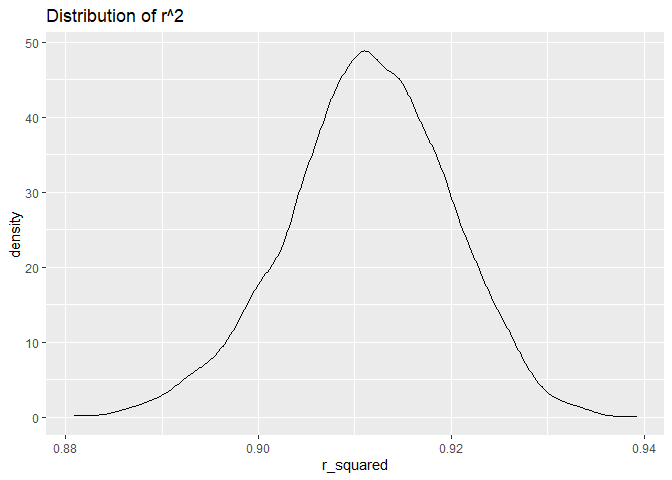
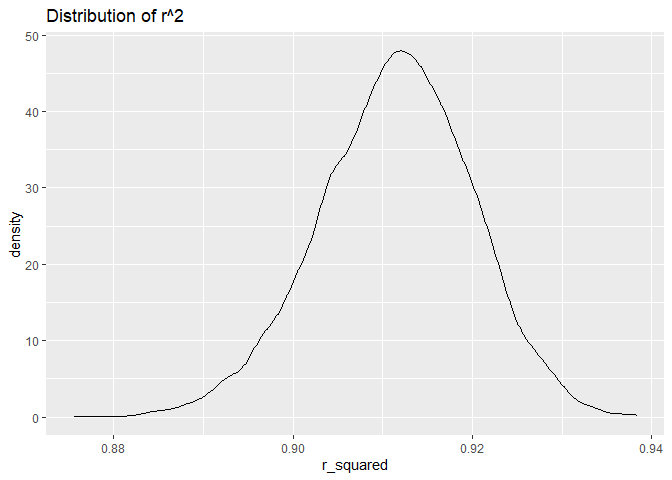
Added notes

diff --git a/p8105_hw6_yo2336.md b/p8105_hw6_yo2336.md
@@ -4,7 +4,10 @@ Yoo Rim Oh
 
 # Problem 1
 
-Load and clean data
+## Load and clean data
+
+Load data using `read_csv` and changed columns `babysex`, `frace`,
+`malform`, and `mrace` as factor vectors.
 
 ``` r
 birth_weight =
@@ -43,7 +46,27 @@ summary(is.na(birth_weight))
     ##  Mode :logical   Mode :logical   Mode :logical   Mode :logical  
     ##  FALSE:4342      FALSE:4342      FALSE:4342      FALSE:4342
 
-Regression model for birth weight
+As a result, this data frame has 20 variables named, babysex, bhead,
+blength, bwt, delwt, fincome, frace, gaweeks, malform, menarche,
+mheight, momage, mrace, parity, pnumlbw, pnumsga, ppbmi, ppwt, smoken,
+wtgain with total of 4342 observations.
+
+In order to check that this data does not have any missing values, used
+`summary(is.na(birth_weight))`. No NA present in this data.
+
+## Regression model for birth weight
+
+A linear regression model for birth weight based on hypothesis created
+using `lm()` and named it `birth_weight_fit`. `bwt` was the response and
+predictors were `bhead`, `blength`, `delwt`, `gaweeks`, and `wtgain` to
+observe how baby’s length, head circumference, gestational age along
+with mother’s weight gain and weight at the time of delivery effect
+baby’s birth weight.
+
+I hypothesized that the the size of the baby at birth, including length
+and head circumference, and the weight of mother in relation to the
+gestational age would have an effect on the ultimate weight of the baby
+at birth.
 
 ``` r
 birth_weight_fit = lm(bwt ~ bhead + blength + delwt + gaweeks + wtgain, data = birth_weight)
@@ -73,7 +96,13 @@ left_join(add_residuals(birth_weight, birth_weight_fit),
 
 ![](p8105_hw6_yo2336_files/figure-gfm/unnamed-chunk-2-1.png)<!-- -->
 
-Compare 3 Models
+## Compare 3 Models
+
+Compared the hypothesis driven model from above (called fit) with a
+model (called model 1) with length at birth and gestational age as
+predictors and another model (called model 2) with head circumference,
+length, sex, and all interactions between. Used `crossv_mc()` to compare
+in terms of the cross-validated prediction error.
 
 ``` r
 cv_df = 
@@ -106,9 +135,14 @@ cv_df %>%
 
 ![](p8105_hw6_yo2336_files/figure-gfm/unnamed-chunk-3-1.png)<!-- -->
 
+The model with least amount of predictors (model 1) had generally higher
+RMSE distribution when compared with the other 2 models.
+
 # Problem 2
 
-Load data
+## Load data
+
+Will be focusing on `tmin` and `tmax`.
 
 ``` r
 weather_df = 
@@ -134,7 +168,11 @@ weather_df =
 
     ## file min/max dates: 1869-01-01 / 2021-10-31
 
-Bootstrap
+## Bootstrap
+
+Used `bootstrap()` to create 5000 bootstrap samples. These samples were
+used to evaluate simple linear regression with `tmax` as the response
+and `tmin` as the predictor.
 
 ``` r
 weather_bootstrap =
@@ -155,7 +193,10 @@ bootstrap_results =
     ## Warning: unnest() has a new interface. See ?unnest for details.
     ## Try `df %>% unnest(c(results, results2))`, with `mutate()` if needed
 
-r^2
+## r^2
+
+The r^2 values were extracted directly from `broom::glance` which were
+then used to calculate 95% confidence interval.
 
 ``` r
 bootstrap_results %>%
@@ -176,11 +217,17 @@ bootstrap_results %>%
 
 | ci\_lower | ci\_upper |
 |----------:|----------:|
-| 0.8935453 |  0.926994 |
+| 0.8934132 | 0.9275987 |
 
 95% Confidence Interval for r^2
 
-log(β\_0∗β\_1)
+The distribution of r^2 resemble a normal distribution.
+
+## log(β\_0∗β\_1)
+
+The log(β\_0∗β\_1) values were calculated from log(`intercept` estimate
+\* `tmin` estimate) which were then used to calculate 95% confidence
+interval.
 
 ``` r
 log_results =
@@ -210,6 +257,8 @@ log_results %>%
 
 | ci\_lower | ci\_upper |
 |----------:|----------:|
-|  1.964554 |  2.059354 |
+|  1.964946 |  2.059812 |
 
 95% Confidence Interval for log(ß\_0\*ß\_1)
+
+The distribution of log(β\_0∗β\_1) resemble a normal distribution
